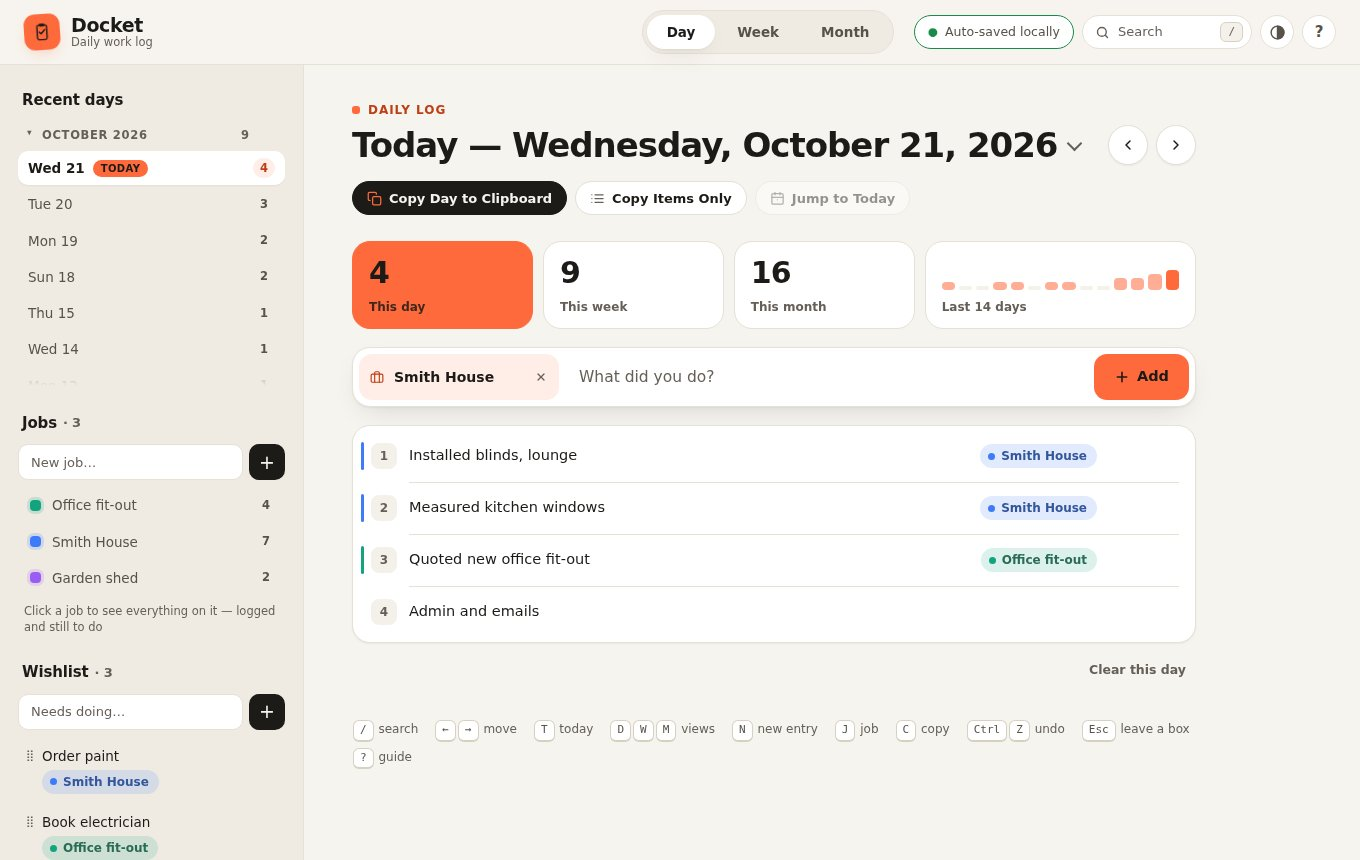
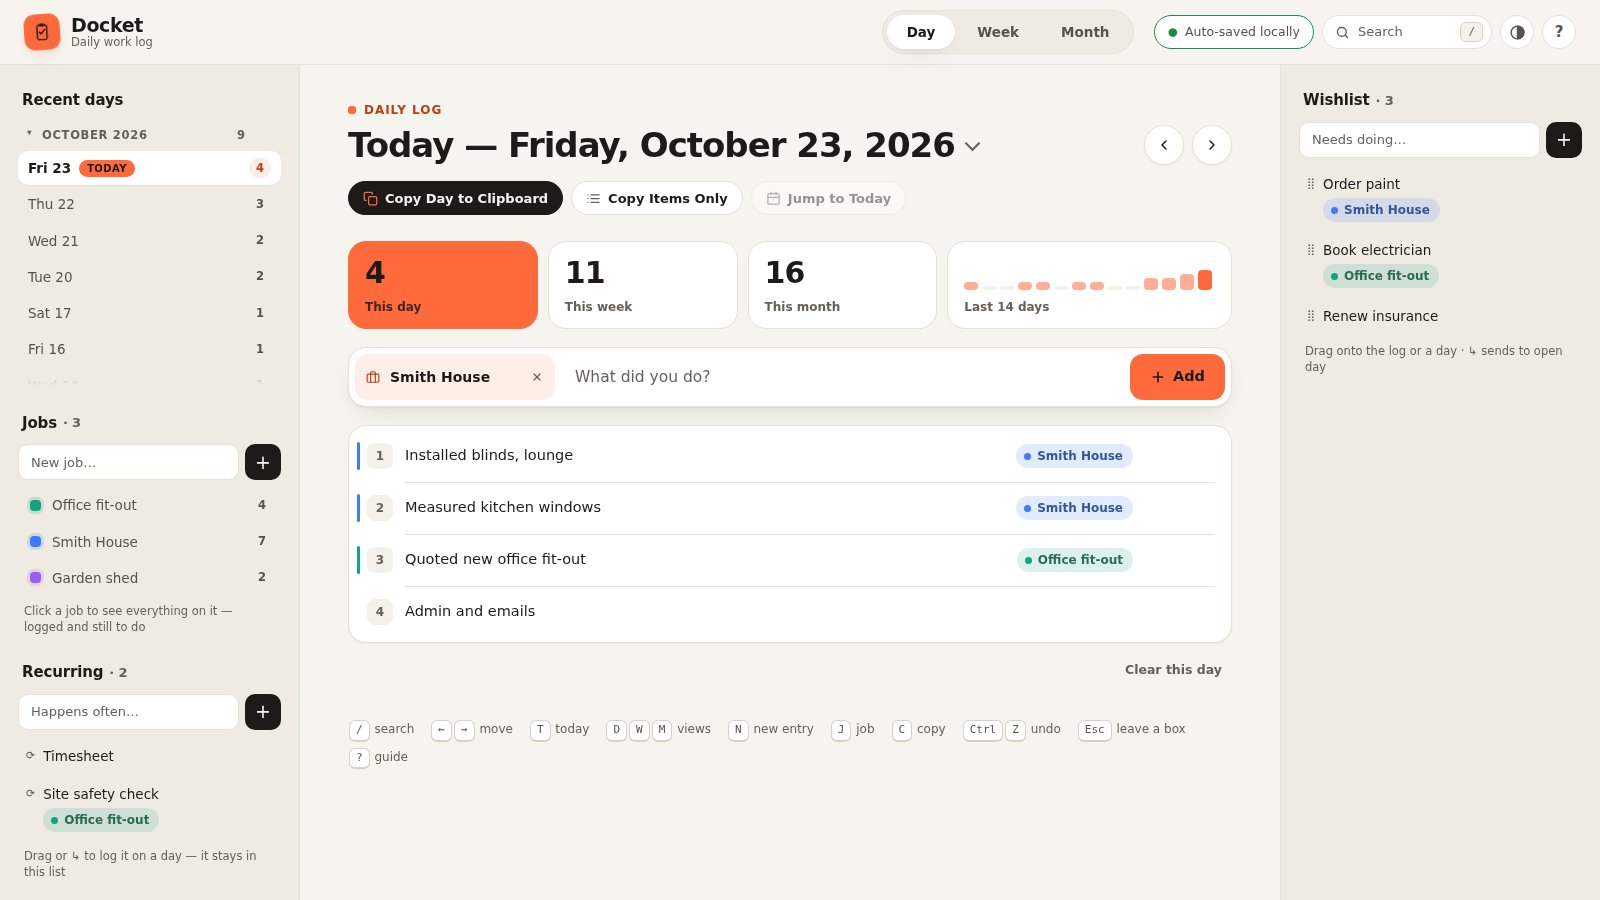
Docket 2.4: three-column layout on PC, Wishlist in its own panel
- The Wishlist moves out of the left panel into its own right-hand
  panel (aside.side-right, labelled for screen readers), full height,
  its list scrolling inside the panel once it's long.
- Left panel keeps Recent days, Jobs, Recurring and Backup & data.
- The main column fills the space between the panels (no fixed max
  width); padding scales with the window.
- Under 1200px the Wishlist folds under the log in the main column;
  under 860px everything stacks: log, Wishlist, then the other lists.
- The floating + sits clear of the Wishlist panel on PC.
- tests/layout.spec.js covers all three arrangements; guide, README,
  ARCHITECTURE, CHANGELOG and screenshots updated. Version 2.4.0.

Claude-Session: https://claude.ai/code/session_01H9fPMwvFvgNvqPDu1kdh6L

diff --git a/src/index.html b/src/index.html
@@ -42,7 +42,7 @@
 </header>
 <div class="app">
 
-  <aside class="side">
+  <aside class="side side-left" aria-label="Days, jobs and recurring tasks">
     <section class="grow">
       <h2>Recent days</h2>
       <ul class="daylist" id="dayList"></ul>
@@ -56,21 +56,6 @@
       </div>
       <ul class="joblist" id="jobList"></ul>
       <div class="wish-hint">Click a job to see everything on it — logged and still to do</div>
-    </section>
-
-    <section>
-      <h2>Wishlist <span class="qcount" id="wishCount"></span></h2>
-      <div class="wish-add">
-        <input type="text" id="newWish" placeholder="Needs doing…" autocomplete="off" aria-label="New wishlist item">
-        <button id="addWishBtn" data-tip="Add to the wishlist" aria-label="Add to the wishlist">+</button>
-        <div class="jobwrap" id="wishJobWrap">
-          <span class="ic"><svg viewBox="0 0 24 24" fill="none" stroke="currentColor" stroke-width="2" stroke-linecap="round" stroke-linejoin="round" aria-hidden="true"><rect x="2" y="7" width="20" height="14" rx="2"/><path d="M16 21V5a2 2 0 0 0-2-2h-4a2 2 0 0 0-2 2v16"/></svg></span>
-          <input type="text" id="wishJob" list="jobOptions" placeholder="Job (optional)" autocomplete="off" maxlength="60" aria-label="Job for new wishlist items (optional)">
-          <button type="button" class="jobclear" id="wishJobClear" data-tip="Stop adding to this job" aria-label="Clear job"><span class="ic"><svg viewBox="0 0 24 24" fill="none" stroke="currentColor" stroke-width="2.4" stroke-linecap="round" aria-hidden="true"><path d="M18 6 6 18"/><path d="m6 6 12 12"/></svg></span></button>
-        </div>
-      </div>
-      <ul class="wishlist" id="wishList"></ul>
-      <div class="wish-hint">Drag onto the log or a day · ↳ sends to open day</div>
     </section>
 
     <section>
@@ -170,6 +155,23 @@
 
     <div class="keys" aria-hidden="true"><span><kbd>/</kbd> search</span><span><kbd>←</kbd><kbd>→</kbd> move</span><span><kbd>T</kbd> today</span><span><kbd>D</kbd><kbd>W</kbd><kbd>M</kbd> views</span><span><kbd>N</kbd> new entry</span><span><kbd>J</kbd> job</span><span><kbd>C</kbd> copy</span><span><kbd>Ctrl</kbd><kbd>Z</kbd> undo</span><span><kbd>Esc</kbd> leave a box</span><span><kbd>?</kbd> guide</span></div>
   </main>
+
+  <aside class="side side-right" aria-label="Wishlist">
+    <section class="wishpanel">
+      <h2>Wishlist <span class="qcount" id="wishCount"></span></h2>
+      <div class="wish-add">
+        <input type="text" id="newWish" placeholder="Needs doing…" autocomplete="off" aria-label="New wishlist item">
+        <button id="addWishBtn" data-tip="Add to the wishlist" aria-label="Add to the wishlist">+</button>
+        <div class="jobwrap" id="wishJobWrap">
+          <span class="ic"><svg viewBox="0 0 24 24" fill="none" stroke="currentColor" stroke-width="2" stroke-linecap="round" stroke-linejoin="round" aria-hidden="true"><rect x="2" y="7" width="20" height="14" rx="2"/><path d="M16 21V5a2 2 0 0 0-2-2h-4a2 2 0 0 0-2 2v16"/></svg></span>
+          <input type="text" id="wishJob" list="jobOptions" placeholder="Job (optional)" autocomplete="off" maxlength="60" aria-label="Job for new wishlist items (optional)">
+          <button type="button" class="jobclear" id="wishJobClear" data-tip="Stop adding to this job" aria-label="Clear job"><span class="ic"><svg viewBox="0 0 24 24" fill="none" stroke="currentColor" stroke-width="2.4" stroke-linecap="round" aria-hidden="true"><path d="M18 6 6 18"/><path d="m6 6 12 12"/></svg></span></button>
+        </div>
+      </div>
+      <ul class="wishlist" id="wishList"></ul>
+      <div class="wish-hint">Drag onto the log or a day · ↳ sends to open day</div>
+    </section>
+  </aside>
 </div>
 
 <button class="fab" id="fab" data-tip="Add an entry — shortcut: N" aria-label="Add an entry">+</button>
@@ -239,7 +241,7 @@
 
       <h3><span class="tick">●</span> Wishlist</h3>
       <ul>
-        <li>Queue things that still need doing in the sidebar's <b>Wishlist</b>.</li>
+        <li>Queue things that still need doing in the <b>Wishlist</b> — the panel on the right (on smaller screens, under the log).</li>
         <li>When one gets done, <b>drag it onto the log or onto a day</b> — in Recent Days, or straight onto a Week or Month cell. It becomes an entry there.</li>
         <li>Or hover it and click <b>↳</b> to log it on the day you have open. Click its text or <b>✎</b> to edit it or set its job, <b>✕</b> to remove.</li>
       </ul>

diff --git a/src/styles.css b/src/styles.css
@@ -290,16 +290,19 @@ input::placeholder { color: var(--ink-3); }
 /* ==========================================================================
    Layout: lists on the left, the work on the right
    ========================================================================== */
+/* PC: lists left, the work in the middle (filling the space), the
+   Wishlist right. Narrower screens fold the Wishlist under the work. */
 .app {
   display: grid;
-  grid-template-columns: 304px minmax(0, 1fr);
+  grid-template-columns: 300px minmax(0, 1fr) 320px;
   min-height: calc(100vh - 64px);
 }
 .main {
+  grid-column: 2;
+  grid-row: 1;
   min-width: 0;
   width: 100%;
-  max-width: 940px;
-  padding: 34px 48px 110px;
+  padding: 34px clamp(32px, 3vw, 64px) 110px;
 }
 
 /* ---------- side panel ---------- */
@@ -319,6 +322,10 @@ input::placeholder { color: var(--ink-3); }
   scrollbar-width: thin;
   scrollbar-color: var(--line-2) transparent;
 }
+.side.side-right { grid-column: 3; border-right: none; border-left: 1px solid var(--line); }
+/* the Wishlist has the whole right panel, so its list takes the full height */
+.side-right .wishpanel { flex: 1 1 auto; min-height: 0; display: flex; flex-direction: column; }
+.side-right ul.wishlist { flex: 0 1 auto; min-height: 0; max-height: none; } /* as tall as its items, scrolling once it fills the panel */
 .side h2 {
   display: flex;
   align-items: center;
@@ -1574,9 +1581,24 @@ body[data-view="job"] .datenav .bigdate::before {
 /* ==========================================================================
    Narrower screens
    ========================================================================== */
-@media (max-width: 1100px) {
+@media (min-width: 1200px) {
+  .fab { right: calc(320px + 28px); } /* clear of the Wishlist panel */
+}
+@media (max-width: 1199px) {
   .app { grid-template-columns: 272px minmax(0, 1fr); }
-  .main { padding: 28px 30px 100px; }
+  .side.side-left { grid-row: 1 / span 2; }
+  .main { padding: 28px 30px 48px; }
+  .side.side-right {
+    grid-column: 2;
+    grid-row: 2;
+    position: static;
+    height: auto;
+    overflow: visible;
+    border-left: none;
+    border-top: 1px solid var(--line);
+    padding: 24px 30px 110px;
+  }
+  .side-right ul.wishlist { max-height: 360px; }
   .datenav .bigdate { font-size: 30px; }
 }
 @media (max-width: 860px) {
@@ -1594,7 +1616,9 @@ body[data-view="job"] .datenav .bigdate::before {
   .overlay.search { padding: 12px; }
   .app { display: flex; flex-direction: column; }
   .main { order: 1; max-width: none; padding: 22px 16px 40px; }
-  .side { order: 2; position: static; height: auto; overflow: visible; border-right: none; border-top: 1px solid var(--line); padding: 24px 16px 100px; }
+  .side { position: static; height: auto; overflow: visible; border-right: none; border-top: 1px solid var(--line); padding: 24px 16px 100px; }
+  .side.side-right { order: 2; padding: 24px 16px; }
+  .side.side-left { order: 3; }
   .daylist { max-height: 300px; }
   .datenav .bigdate { font-size: 27px; }
   .stats { grid-template-columns: repeat(3, minmax(0, 1fr)); }

diff --git a/tests/layout.spec.js b/tests/layout.spec.js
@@ -1,0 +1,51 @@
+// Page layout: three columns on PC, the Wishlist folded under the log on
+// small laptops, and a single column on phones.
+"use strict";
+
+const { test } = require("@playwright/test");
+const { check, seed } = require("./helpers");
+
+const many = Array.from({ length: 30 }, (_, i) => ({ id: "w" + i, text: "Wishlist item " + (i + 1) }));
+const box = (page, sel) => page.locator(sel).boundingBox();
+
+test("PC: lists left, log in the middle filling the space, Wishlist right", async ({ page }) => {
+  await page.setViewportSize({ width: 1920, height: 1000 });
+  await seed(page, { "track.wishlist.v1": many });
+  await page.goto("/");
+  const left = await box(page, ".side-left");
+  const main = await box(page, ".main");
+  const right = await box(page, ".side-right");
+  check(left.x === 0 && main.x >= left.x + left.width - 1, "lists panel on the left");
+  check(right.x >= main.x + main.width - 1 && Math.round(right.x + right.width) === 1920, "Wishlist panel on the right edge");
+  check(main.width > 1200, "the log fills the space between them: " + Math.round(main.width) + "px");
+  check(Math.abs(right.y - main.y) < 2, "the Wishlist sits alongside the log, not under it");
+  check(await page.locator(".side-left #wishList").count() === 0 && await page.locator(".side-right #wishList").count() === 1, "the Wishlist lives only in the right panel");
+  // a long Wishlist scrolls inside its panel; the page itself doesn't grow
+  const panelScrolls = await page.locator("#wishList").evaluate((el) => el.scrollHeight > el.clientHeight);
+  check(panelScrolls, "a long Wishlist scrolls within its panel");
+  check(Math.round((await box(page, ".side-right")).height) <= 1000, "…and the panel stays the height of the window");
+  const fab = await box(page, "#fab");
+  check(fab.x + fab.width <= right.x, "the floating + stays clear of the Wishlist panel");
+});
+
+test("small laptop: Wishlist folds under the log", async ({ page }) => {
+  await page.setViewportSize({ width: 1024, height: 768 });
+  await seed(page, {});
+  await page.goto("/");
+  const main = await box(page, ".main");
+  const right = await box(page, ".side-right");
+  check(right.y >= main.y + main.height - 1 && Math.abs(right.x - main.x) < 2, "Wishlist directly under the log, same column");
+  check(!(await page.evaluate(() => document.documentElement.scrollWidth > innerWidth)), "no sideways scroll");
+});
+
+test("phone: one column — log, then Wishlist, then the other lists", async ({ page }) => {
+  await page.setViewportSize({ width: 390, height: 844 });
+  await seed(page, {});
+  await page.goto("/");
+  const main = await box(page, ".main");
+  const right = await box(page, ".side-right");
+  const left = await box(page, ".side-left");
+  check(main.y < right.y && right.y < left.y, "order is log, Wishlist, other lists");
+  check(Math.round(right.width) === 390 && Math.round(left.width) === 390, "each takes the full width");
+  check(!(await page.evaluate(() => document.documentElement.scrollWidth > innerWidth)), "no sideways scroll");
+});

diff --git a/scripts/screenshots.js b/scripts/screenshots.js
@@ -69,7 +69,7 @@ async function shoot(browser, name, viewport, steps, colorScheme = "light") {
   }
   fs.mkdirSync(OUT, { recursive: true });
   const browser = await chromium.launch();
-  const desk = { width: 1360, height: 860 };
+  const desk = { width: 1600, height: 900 };
   await shoot(browser, "day.jpg", desk, async (p) => {
     await p.fill("#newJob", "Smith House");
     await p.locator("#newJob").blur();

diff --git a/docs/ARCHITECTURE.md b/docs/ARCHITECTURE.md
@@ -16,6 +16,12 @@ the same code run three ways:
 | In a browser tab | the same server | the site's origin |
 | Double-clicked file | nothing — `file://dist/Docket.html` | `file://` |
 
+The page is a three-column grid on PC: `.side-left` (Recent days, Jobs,
+Recurring, Backup), `.main` (the views, filling the space) and `.side-right`
+(the Wishlist). Under 1200px wide the Wishlist moves under `.main`, and under
+860px everything stacks in one column: log, Wishlist, then the other lists.
+The breakpoints live at the end of `styles.css`.
+
 The source is split for editing and joined at build time:
 
 ```
@@ -152,6 +158,7 @@ real server in Chromium:
 | `entries`, `reorder`, `ease` | moving, editing anywhere, reordering, search, undo, quick-add |
 | `clear-data` | Clear data, Undo, and clear → re-import round trips |
 | `design` | job colours, the theme switch |
+| `layout` | three columns on PC, the small-laptop and phone fallbacks |
 | `robustness` | blocked storage, damaged data, two tabs, stale undo |
 | `a11y` | axe-core, WCAG 2.1 A/AA, every view and dialog, both themes |
 | `app` | server headers and CSP, installability, offline use, the standalone file |

diff --git a/CHANGELOG.md b/CHANGELOG.md
@@ -2,6 +2,15 @@
 
 All notable changes to Docket. Versions follow [Semantic Versioning](https://semver.org/).
 
+## [2.4.0] — 2026-10-23
+
+### Changed
+- **Three-column layout on PC.** The Wishlist has its own panel on the right, full
+  height. Recent days, Jobs, Recurring and Backup stay on the left, and the log in the
+  middle now fills the space between them instead of stopping at a fixed width.
+  On small laptops (under 1200px wide) the Wishlist folds in under the log. On phones
+  it comes straight after the log, before the other lists.
+
 ## [2.3.1] — 2026-10-21
 
 A stability, accessibility and documentation release: no new features.
@@ -139,6 +148,7 @@ The single-file daily log: Day, Week and Month views, Wishlist and Recurring lis
 copy to clipboard, CSV and JSON import/export, Undo, keyboard shortcuts and the
 black-and-silver ledger design.
 
+[2.4.0]: https://github.com/Stefs-Time/Track/releases/tag/v2.4.0
 [2.3.1]: https://github.com/Stefs-Time/Track/releases/tag/v2.3.1
 [2.3.0]: https://github.com/Stefs-Time/Track/releases/tag/v2.3.0
 [2.2.0]: https://github.com/Stefs-Time/Track/releases/tag/v2.2.0

diff --git a/README.md b/README.md
@@ -13,6 +13,7 @@ It comes two ways, from the same code:
 
 - **Daily log.** Type what you did and press Enter. Day, Week and Month views, stat tiles and a 14-day activity chart.
 - **Jobs.** Set a job once and log several entries against it. Each entry shows its job, and the **Job view** gathers everything on a job across every day, with totals. **Copy Job** gives you an invoice-ready list.
+- **Uses the whole screen.** On a PC, your lists sit on the left, the log fills the middle, and the Wishlist has its own panel on the right. Smaller screens fold neatly into fewer columns.
 - **Wishlist and Recurring.** Queue things to do, or keep often-repeated tasks. Both can carry a job, and logging one (↳ or drag) carries the job onto the entry.
 - **Search everything.** `/` or Ctrl+K finds any entry, job, wishlist or recurring item — by words, job or date — and jumps straight to it.
 - **Reorder anywhere.** Drag entries up or down in the Day, Week or Job view, or use ↑ ↓ on the keyboard; touch screens get ▲ ▼ buttons. Copies and exports follow your order.
